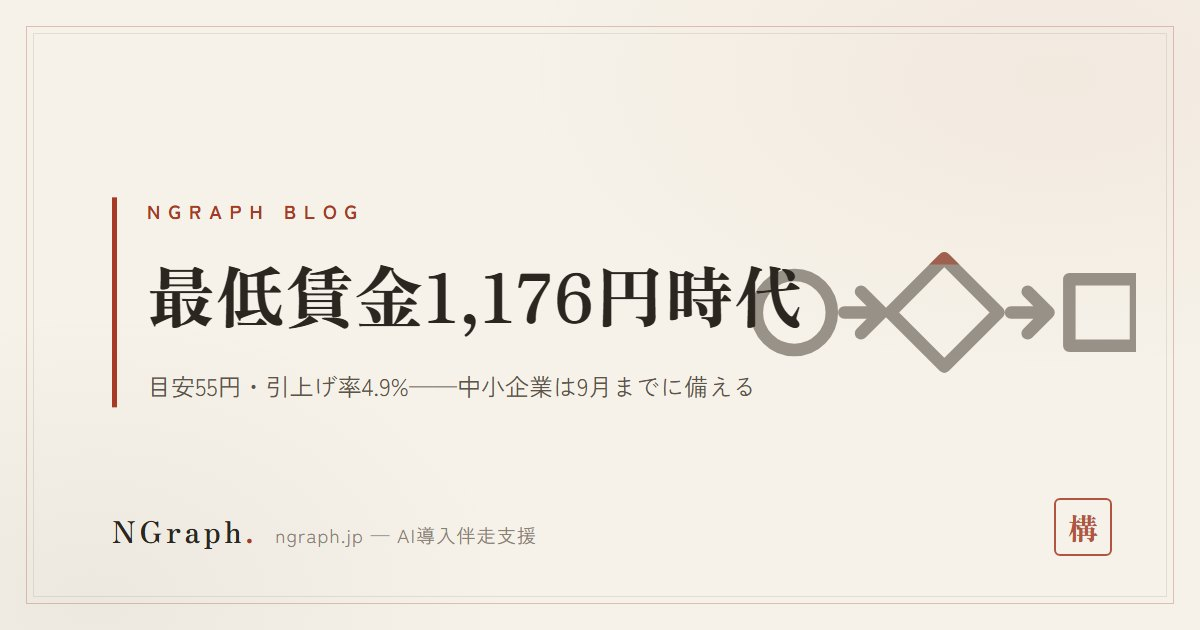
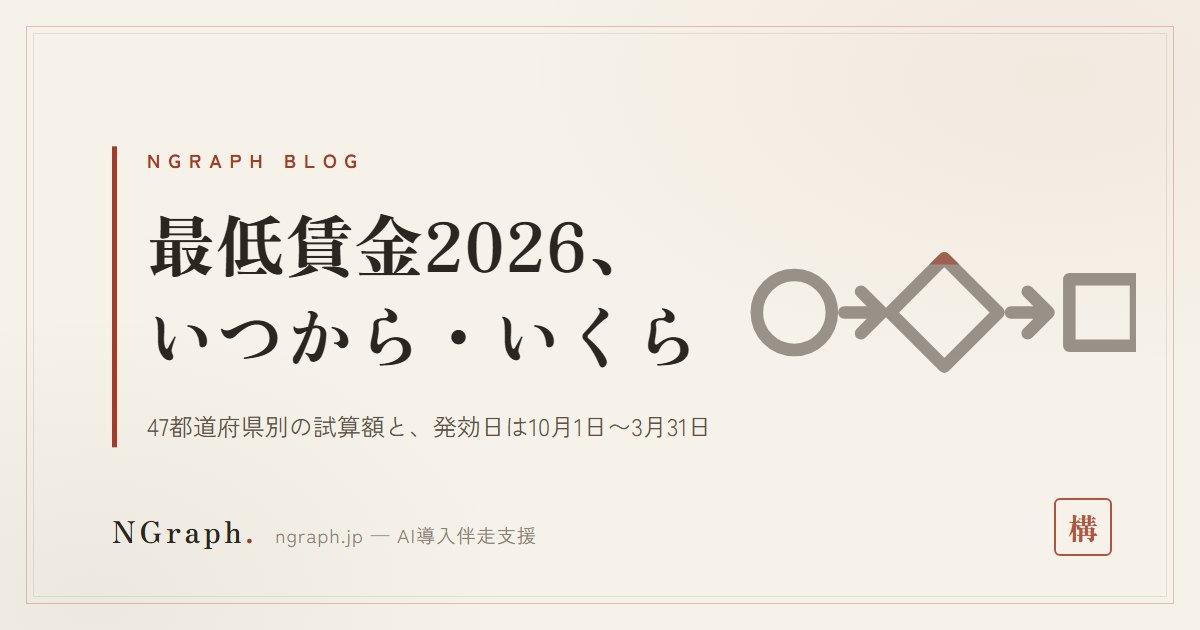
blog: 最低賃金2026記事を「いつから・いくら」型にリライト
厚労省「令和7年度地域別最低賃金全国一覧」PDFから47都道府県の額と
発効日を抽出し、県別の想定時給一覧を追加。検索の入口を広げる。

- 47都道府県表（いまの時給／その時給になった日／目安／2026年度の想定時給）
- 新H2「いつから」: 令和7年度は10月中発効が20都道府県のみ、6県は年越し、
  秋田は2026年3月31日
- 新H2「自社が下回っていないか」: 厚労省セルフチェックシートの月給判定式、
  最低賃金法4条3項・施行規則1条の算入しない賃金、4条2項の無効・40条の罰則
- タイトル/meta/JSON-LD/アイキャッチ/ブログ一覧カードを更新、FAQ 9問に拡充
- .a-fig-wrap に overflow-x:auto（この記事だけ8/5以降の修正が入っていなかった）
- 47行表は1列目 sticky、列見出しを短縮してPC幅での横スクロールを解消

Changed region(s): [[0.1233, 0.3317, 0.6783, 0.6333], [0.0925, 0.6635, 0.5858, 0.6937], [0.0925, 0.2413, 0.3083, 0.3016]]

diff --git a/blog/20260803-saitei-chingin-2026.html b/blog/20260803-saitei-chingin-2026.html
@@ -10,10 +10,10 @@
   gtag('js', new Date());
   gtag('config', 'G-L96HMXRK1D');
 </script>
-<title>最低賃金2026年度は55円引き上げ・全国加重平均1,176円へ——賃上げ率3.38%の小規模企業がギャップをどう埋めるか | NGraphブログ</title>
-<meta name="description" content="厚労省が2026年7月28日に示した令和8年度の最低賃金の目安は全国加重平均で55円引き上げ・1,176円。日商調査の小規模企業の賃上げ率3.38%とのギャップと、9月までに決めることを数字で解説します。">
-<meta property="og:title" content="最低賃金2026年度は55円引き上げ・全国加重平均1,176円へ——賃上げ率3.38%の小規模企業がギャップをどう埋めるか | NGraphブログ">
-<meta property="og:description" content="厚労省が2026年7月28日に示した令和8年度の最低賃金の目安は全国加重平均で55円引き上げ・1,176円。日商調査の小規模企業の賃上げ率3.38%とのギャップと、9月までに決めることを数字で解説します。">
+<title>最低賃金2026年度はいつから・いくら？47都道府県別の想定時給と発効日——目安55円・全国平均1,176円 | NGraphブログ</title>
+<meta name="description" content="令和8年度（2026年度）の最低賃金の目安は全国加重平均で55円引き上げ・1,176円。47都道府県ごとの2026年度の想定時給と、令和7年度の発効日（2025年10月1日〜2026年3月31日）を一覧にしました。自社が下回っていないかの確認方法と、9月1日受付開始の業務改善助成金まで解説します。">
+<meta property="og:title" content="最低賃金2026年度はいつから・いくら？47都道府県別の想定時給と発効日——目安55円・全国平均1,176円 | NGraphブログ">
+<meta property="og:description" content="令和8年度（2026年度）の最低賃金の目安は全国加重平均で55円引き上げ・1,176円。47都道府県ごとの2026年度の想定時給と、令和7年度の発効日を一覧にしました。自社が下回っていないかの確認方法まで解説します。">
 <meta property="og:type" content="article">
 <meta property="og:url" content="https://ngraph.jp/blog/20260803-saitei-chingin-2026.html">
 <meta property="og:site_name" content="株式会社NGraph">
@@ -28,16 +28,16 @@
 <link rel="preconnect" href="https://fonts.gstatic.com" crossorigin>
 <link href="https://fonts.googleapis.com/css2?family=Zen+Old+Mincho:wght@400;600;700;900&family=Zen+Kaku+Gothic+New:wght@400;500;700&family=Noto+Sans+JP:wght@400;500;700&display=swap" rel="stylesheet">
 <link rel="stylesheet" href="/css/ngraph-zen.css?v=5">
-<style>.a-faq details{border:1px solid var(--border);border-radius:3px;background:var(--bg-card);margin-bottom:10px;padding:0 18px}.a-faq summary{font-family:var(--serif);font-size:.92rem;font-weight:700;line-height:1.7;padding:14px 0;cursor:pointer;list-style:none;position:relative;padding-right:26px}.a-faq summary::after{content:"＋";position:absolute;right:2px;top:50%;transform:translateY(-50%);color:var(--accent)}.a-faq details[open] summary::after{content:"−"}.a-faq details p{font-size:.86rem;color:var(--text-2);line-height:2;padding:0 0 16px}.a-note{background:rgba(166,58,36,.05);border-left:2.5px solid var(--accent);padding:16px 20px;border-radius:0 3px 3px 0;font-size:.88rem;color:var(--text-2);line-height:2.1;margin:26px 0}.a-note strong{color:var(--text)}.a-table-wrap{overflow-x:auto;margin:18px 0}.a-table{width:100%;border-collapse:collapse;font-size:.84rem}.a-table th,.a-table td{border:1px solid var(--border);padding:9px 12px;text-align:left;line-height:1.8;color:var(--text-2)}.a-table th{background:rgba(166,58,36,.05);color:var(--text);font-weight:700;white-space:nowrap}.a-eyecatch{width:100%;height:auto;display:block;border:1px solid var(--border);border-radius:4px;margin:24px 0 8px}.a-fig-wrap{background:var(--bg-card);border:1px solid var(--border);border-radius:4px;padding:22px 18px 14px;margin:26px 0}.a-fig-title{font-family:var(--serif);font-size:.95rem;font-weight:700;text-align:center;margin-bottom:10px;color:var(--text)}.a-fig-cap{font-size:.8rem;color:var(--text-3);line-height:1.95;margin-top:10px}.a-src{border-top:1px solid var(--border);margin-top:34px;padding-top:16px;font-size:.78rem;color:var(--text-3);line-height:2}.a-src a{color:var(--text-3);text-decoration:underline}.a-toc{background:var(--bg-card);border:1px solid var(--border);border-radius:3px;padding:16px 20px;margin:20px 0;font-size:.86rem;color:var(--text-2);line-height:2}.a-toc strong{color:var(--text)}</style>
+<style>.a-faq details{border:1px solid var(--border);border-radius:3px;background:var(--bg-card);margin-bottom:10px;padding:0 18px}.a-faq summary{font-family:var(--serif);font-size:.92rem;font-weight:700;line-height:1.7;padding:14px 0;cursor:pointer;list-style:none;position:relative;padding-right:26px}.a-faq summary::after{content:"＋";position:absolute;right:2px;top:50%;transform:translateY(-50%);color:var(--accent)}.a-faq details[open] summary::after{content:"−"}.a-faq details p{font-size:.86rem;color:var(--text-2);line-height:2;padding:0 0 16px}.a-note{background:rgba(166,58,36,.05);border-left:2.5px solid var(--accent);padding:16px 20px;border-radius:0 3px 3px 0;font-size:.88rem;color:var(--text-2);line-height:2.1;margin:26px 0}.a-note strong{color:var(--text)}.a-table-wrap{overflow-x:auto;margin:18px 0}.a-table{width:100%;border-collapse:collapse;font-size:.84rem}.a-table th,.a-table td{border:1px solid var(--border);padding:9px 12px;text-align:left;line-height:1.8;color:var(--text-2)}.a-table th{background:rgba(166,58,36,.05);color:var(--text);font-weight:700;white-space:nowrap}.a-eyecatch{width:100%;height:auto;display:block;border:1px solid var(--border);border-radius:4px;margin:24px 0 8px}.a-fig-wrap{background:var(--bg-card);border:1px solid var(--border);border-radius:4px;padding:22px 18px 14px;margin:26px 0;overflow-x:auto}.a-fig-title{font-family:var(--serif);font-size:.95rem;font-weight:700;text-align:center;margin-bottom:10px;color:var(--text)}.a-fig-cap{font-size:.8rem;color:var(--text-3);line-height:1.95;margin-top:10px}.a-src{border-top:1px solid var(--border);margin-top:34px;padding-top:16px;font-size:.78rem;color:var(--text-3);line-height:2}.a-src a{color:var(--text-3);text-decoration:underline}.a-toc{background:var(--bg-card);border:1px solid var(--border);border-radius:3px;padding:16px 20px;margin:20px 0;font-size:.86rem;color:var(--text-2);line-height:2}.a-toc strong{color:var(--text)}.a-t47 td{white-space:nowrap}.a-t47 td:first-child,.a-t47 th:first-child{position:sticky;left:0;background:var(--bg);z-index:1}.a-t47 th:first-child{background:#efe9dc}</style>
 <script type="application/ld+json">
 {
   "@context": "https://schema.org",
   "@type": "Article",
-  "headline": "最低賃金2026年度は55円引き上げ・全国加重平均1,176円へ——賃上げ率3.38%の小規模企業がギャップをどう埋めるか",
+  "headline": "最低賃金2026年度はいつから・いくら？47都道府県別の想定時給と発効日——目安55円・全国平均1,176円",
   "image": "https://ngraph.jp/assets/blog/20260803-saitei-chingin-2026.jpg",
-  "description": "厚労省が2026年7月28日に示した令和8年度の最低賃金の目安は全国加重平均で55円引き上げ・1,176円。日商調査の小規模企業の賃上げ率3.38%とのギャップと、9月までに決めることを数字で解説します。",
+  "description": "令和8年度（2026年度）の最低賃金の目安は全国加重平均で55円引き上げ・1,176円。47都道府県ごとの2026年度の想定時給と、令和7年度の発効日（2025年10月1日〜2026年3月31日）を一覧にしました。自社が下回っていないかの確認方法と、9月1日受付開始の業務改善助成金まで解説します。",
   "datePublished": "2026-08-03",
-  "dateModified": "2026-08-03",
+  "dateModified": "2026-08-07",
   "inLanguage": "ja",
   "mainEntityOfPage": "https://ngraph.jp/blog/20260803-saitei-chingin-2026.html",
   "author": { "@type": "Person", "name": "髙橋 真吾", "jobTitle": "代表取締役", "url": "https://ngraph.jp/company#team", "worksFor": { "@type": "Organization", "name": "株式会社NGraph", "url": "https://ngraph.jp/" } },
@@ -49,7 +49,10 @@
  "@context": "https://schema.org",
  "@type": "FAQPage",
  "mainEntity": [
-  {"@type": "Question", "name": "2026年度の最低賃金はいつから上がりますか？", "acceptedAnswer": {"@type": "Answer", "text": "令和7年度の引上げは、2025年10月1日から2026年3月31日までの間に都道府県ごとに順次発効しました。令和8年度も同じ仕組みで、目安をもとに各都道府県労働局長が改定額を決定し、発効日は都道府県ごとに順次定められます。全国一律で特定の1日に切り替わるわけではありません。"}},
+  {"@type": "Question", "name": "2026年度の最低賃金はいつから上がりますか？", "acceptedAnswer": {"@type": "Answer", "text": "令和7年度の引上げは、2025年10月1日（栃木）から2026年3月31日（秋田）までの間に、都道府県ごとに順次発効しました。10月中に発効したのは47のうち20都道府県、10月10日までなら13都道府県で、福島・徳島・熊本・大分・群馬・秋田の6県は年を越しています。令和8年度も同じ仕組みで、目安をもとに各都道府県労働局長が改定額と発効日を決定します。全国一律で特定の1日に切り替わるわけではありません。"}},
+  {"@type": "Question", "name": "自分の県の最低賃金は2026年度にいくらになりますか？", "acceptedAnswer": {"@type": "Answer", "text": "目安どおりに決まった場合の試算では、東京1,280円・神奈川1,279円・大阪1,231円が上位3都府県、高知・宮崎・沖縄の1,079円が最も低くなります。この記事の「47都道府県別」の表に、いまの時給・引上げの目安・2026年度の想定時給を全県分載せています。ただし想定時給はいまの時給にランク別の目安額を足した計算値であり、確定額ではありません。実際の額は各都道府県労働局長が決定します。"}},
+  {"@type": "Question", "name": "月給の場合、最低賃金を満たしているかはどう計算しますか？", "acceptedAnswer": {"@type": "Answer", "text": "厚生労働省の「最低賃金に関するセルフチェックシート」では、①基本給・役付手当・住宅手当・交替手当の合計を出し、②1日の所定労働時間数×年間総労働日数÷12で1か月の所定労働時間数を出し、③①÷②で時間額を求めて、自分の都道府県の最低賃金額と比べる、という手順を示しています。賞与、残業代、休日出勤手当、深夜割増分、通勤手当、家族手当などは算入しません。総支給額で割ると時間額が実際より高く出るので注意してください。"}},
+  {"@type": "Question", "name": "最低賃金より低い賃金でも、本人が合意していれば有効ですか？", "acceptedAnswer": {"@type": "Answer", "text": "有効になりません。最低賃金法第4条第2項は、最低賃金額に達しない賃金を定めた労働契約はその部分について無効とし、無効となった部分は最低賃金と同じ定めをしたものとみなす、と規定しています。合意の有無にかかわらず差額の支払い義務が残ります。また同法第40条により、地域別最低賃金額以上の賃金を支払わなかった者は50万円以下の罰金の対象です。"}},
   {"@type": "Question", "name": "目安の55円は必ずその額になりますか？", "acceptedAnswer": {"@type": "Answer", "text": "なりません。55円は第75回中央最低賃金審議会が2026年7月28日に示した「目安」であり、実際の引上げ額は目安を参考にしながら、各都道府県労働局長が地域の実情を踏まえて決定します。目安どおりになるとは限りません。"}},
   {"@type": "Question", "name": "東京・大阪（Aランク）の方が上げ幅の目安が小さいのはなぜですか？", "acceptedAnswer": {"@type": "Answer", "text": "令和8年度の目安はAランク54円、B・Cランクはともに56円です。この記事では目安の理由そのものには踏み込みませんが、令和7年度に最低額の県と最高額の県の比率が83.4%（前年度81.8%）へ縮まったことが分かっており、地域差を縮める向きの目安が続いていると読めます。"}},
   {"@type": "Question", "name": "パート・アルバイトも対象ですか？", "acceptedAnswer": {"@type": "Answer", "text": "地域別最低賃金は、産業や雇用形態にかかわらず、その都道府県内で働くすべての労働者に適用される仕組みです。パート・アルバイトも対象に含まれます。"}},
@@ -75,25 +78,113 @@
 
 <article class="article-wrap">
   <div class="a-label">Evening Deep Dive</div>
-  <h1>最低賃金2026年度は55円引き上げ・全国加重平均1,176円へ——賃上げ率3.38%の小規模企業がギャップをどう埋めるか</h1>
-  <span class="a-date">2026.08.03 夕 ｜ 株式会社NGraph</span>
+  <h1>最低賃金2026年度はいつから・いくら？47都道府県別の想定時給と発効日——目安55円・全国平均1,176円</h1>
+  <span class="a-date">2026.08.03 夕 ｜ 株式会社NGraph ｜ <strong>最終更新 2026.08.07</strong></span>
   <img class="a-eyecatch" src="/assets/blog/20260803-saitei-chingin-2026.jpg" alt="">
 
-<p>厚生労働省・中央最低賃金審議会が2026年7月28日に示した令和8年度の最低賃金の目安は、<strong>全国加重平均で55円の引き上げ・1,176円</strong>です。ただしこれはあくまで「目安」であり、確定額ではありません。実際の引上げ額は、この目安をもとに各都道府県労働局長が決定します。同じ頃、日本商工会議所の調査（2026年6月8日公表）では、中小企業の賃上げ率は4.01%、従業員20人以下の小規模企業に限ると<strong>3.38%</strong>にとどまることも分かっています。この記事では、①令和8年度の目安の中身、②最低賃金の引上げ率と中小企業の賃上げ率がズレる理由、③中小企業が9月までにやるべきことの3点を、公的な数字だけで解説します。</p>
+<p>厚生労働省・中央最低賃金審議会が2026年7月28日に示した令和8年度（2026年度）の最低賃金の目安は、<strong>全国加重平均で55円の引き上げ・1,176円</strong>です。ただしこれはあくまで「目安」であり、確定額ではありません。実際の引上げ額と<strong>発効日は、都道府県ごとに違います</strong>。<strong>そして2026年度は、この記事の時点でまだどの県も確定していません</strong>——8月から各都道府県の地方最低賃金審議会が答申し、都道府県労働局長が額と発効日を決めます。「いつから」を今の時点で知る唯一の手がかりは、前年に自分の県がいつ発効したかです。令和7年度は、最も早い栃木の2025年10月1日から、最も遅い秋田の2026年3月31日まで<strong>半年ひらきました</strong>。この記事では、①47都道府県それぞれの2026年度の想定時給、②前年の発効日の実績から読む「いつから」、③自社の賃金が下回っていないかの確認方法、④9月1日に受付が始まる業務改善助成金までを、一次情報の数字だけで解説します。</p>
 <div class="a-toc"><strong>この記事でわかること</strong><br>
-・令和8年度の最低賃金の目安（全国加重平均55円・1,176円）の中身とランク別の差<br>
+・<strong>47都道府県別</strong>——いまの時給・その時給になった日・2026年度の想定時給の一覧<br>
+・<strong>「いつから」の実際</strong>——令和7年度に10月中に発効したのは47のうち20都道府県だけ。6県は年を越した<br>
+・<strong>自社チェック</strong>——月給の労働者が最低賃金を下回っていないかを厚労省のセルフチェックシートの式で確かめる方法<br>
 ・最低賃金の引上げ率4.9%と、日商調査の小規模企業の賃上げ率3.38%がズレる理由<br>
 ・9月1日に受付が始まる業務改善助成金を含め、中小企業が今から準備すべき3ステップ</div>
 
 <h2>2026年度の最低賃金はいくら上がるのか——目安55円・全国加重平均1,176円</h2>
 <p>2026年7月28日、第75回中央最低賃金審議会は「令和8年度地域別最低賃金額改定の目安」を答申しました。全国加重平均で見た引上げ額の目安は55円、これがそのまま反映されれば全国加重平均は現在の1,121円から<strong>1,176円</strong>になります。引上げ率にすると4.9%です。目安は都道府県を経済実態に応じてA・B・Cの3つのランクに分けて示されており、その内訳は次のとおりです。</p>
 <div class="a-table-wrap"><table class="a-table">
-<tr><th>ランク</th><th>引上げ額の目安</th><th>対象の都道府県数</th></tr>
-<tr><td>Aランク</td><td class="a-num"><strong>54円</strong></td><td>6都府県</td></tr>
-<tr><td>Bランク</td><td class="a-num"><strong>56円</strong></td><td>28道府県</td></tr>
-<tr><td>Cランク</td><td class="a-num"><strong>56円</strong></td><td>13県</td></tr>
+<tr><th>ランク</th><th>引上げ額の目安</th><th>対象の都道府県</th></tr>
+<tr><td>Aランク</td><td class="a-num"><strong>54円</strong></td><td>6都府県＝埼玉・千葉・東京・神奈川・愛知・大阪</td></tr>
+<tr><td>Bランク</td><td class="a-num"><strong>56円</strong></td><td>28道府県＝北海道・宮城・福島・茨城・栃木・群馬・新潟・富山・石川・福井・山梨・長野・岐阜・静岡・三重・滋賀・京都・兵庫・奈良・和歌山・島根・岡山・広島・山口・徳島・香川・愛媛・福岡</td></tr>
+<tr><td>Cランク</td><td class="a-num"><strong>56円</strong></td><td>13県＝青森・岩手・秋田・山形・鳥取・高知・佐賀・長崎・熊本・大分・宮崎・鹿児島・沖縄</td></tr>
 </table></div>
-<p>47都道府県のうち41道府県がBまたはCランクで56円、残る6都府県がAランクで54円という配分です。ここで必ず押さえておきたいのは、<strong>目安は目安であり、実際の引上げ額は各都道府県労働局長が決定する</strong>という点です。中央最低賃金審議会の答申はあくまで参考値です。実際、令和7年度の改定では、都道府県ごとの引上げ額は63円〜82円と幅がありました。令和7年度については、2025年9月5日に全都道府県の答申が出そろっています。</p>
+<p>47都道府県のうち41道府県がBまたはCランクで56円、残る6都府県がAランクで54円という配分です。<strong>上げ幅の目安が大きいのは、東京・大阪ではなく地方の側</strong>だという点が、令和8年度の目安の特徴です。ここで必ず押さえておきたいのは、<strong>目安は目安であり、実際の引上げ額は各都道府県労働局長が決定する</strong>という点です。中央最低賃金審議会の答申はあくまで参考値です。実際、令和7年度の改定では、都道府県ごとの引上げ額は63円〜82円と幅がありました。令和7年度については、2025年9月5日に全都道府県の答申が出そろっています。令和8年度も、8月から各都道府県の地方最低賃金審議会が審議・答申し、その額を都道府県労働局長が決定する流れです。</p>
+
+<h2>47都道府県別——あなたの県の2026年度の想定時給はいくらか</h2>
+<p>目安はランクごとにまとめて示されるため、自分の県がいくらになるのかは一覧にしないと見えません。次の表は、いま適用されている時給（2025年度＝令和7年度の確定額）に、2026年度のランク別目安（Aランク54円／B・Cランク56円）を足した<strong>想定時給</strong>です。</p><div class="a-note"><strong>先に、列の読み方だけ：</strong>「いまの時給」＝2025年度（令和7年度）に確定して、いま適用されている最低賃金。「この時給になった日」＝<strong>その時給がその県で適用され始めた日</strong>で、右端の想定時給がその日から適用されるという意味ではありません。「目安」＝2026年度のランク別の引上げ目安（Aランクの6都府県が+54円、ほかの41道府県が+56円）。「2026年度の想定時給」＝いまの時給に目安を足しただけの<strong>想定であって、確定額ではありません</strong>。<strong>2026年度の発効日は、まだどの県も決まっていません</strong>——8月から各都道府県の地方最低賃金審議会が答申し、そこで初めて額と発効日が決まります。それでもこの列を載せているのは、<strong>前年に自分の県がいつ発効したかが、今年の見込みを立てる唯一の手がかり</strong>だからです。福井なら2025年10月8日、秋田なら2026年3月31日で、この差はそのまま今年も出る可能性があります（次のセクションで詳しく書きます）。</div>
+<div class="a-table-wrap"><table class="a-table a-t47">
+<tr><th>都道府県</th><th>いまの時給</th><th>この時給になった日</th><th>目安</th><th>2026年度の想定時給</th></tr>
+<tr><td>北海道</td><td class="a-num">1,075円</td><td>2025年10月4日</td><td class="a-num">+56円</td><td class="a-num"><strong>1,131円</strong></td></tr>
+<tr><td>青森</td><td class="a-num">1,029円</td><td>2025年11月21日</td><td class="a-num">+56円</td><td class="a-num"><strong>1,085円</strong></td></tr>
+<tr><td>岩手</td><td class="a-num">1,031円</td><td>2025年12月1日</td><td class="a-num">+56円</td><td class="a-num"><strong>1,087円</strong></td></tr>
+<tr><td>宮城</td><td class="a-num">1,038円</td><td>2025年10月4日</td><td class="a-num">+56円</td><td class="a-num"><strong>1,094円</strong></td></tr>
+<tr><td>秋田</td><td class="a-num">1,031円</td><td>2026年3月31日</td><td class="a-num">+56円</td><td class="a-num"><strong>1,087円</strong></td></tr>
+<tr><td>山形</td><td class="a-num">1,032円</td><td>2025年12月23日</td><td class="a-num">+56円</td><td class="a-num"><strong>1,088円</strong></td></tr>
+<tr><td>福島</td><td class="a-num">1,033円</td><td>2026年1月1日</td><td class="a-num">+56円</td><td class="a-num"><strong>1,089円</strong></td></tr>
+<tr><td>茨城</td><td class="a-num">1,074円</td><td>2025年10月12日</td><td class="a-num">+56円</td><td class="a-num"><strong>1,130円</strong></td></tr>
+<tr><td>栃木</td><td class="a-num">1,068円</td><td>2025年10月1日</td><td class="a-num">+56円</td><td class="a-num"><strong>1,124円</strong></td></tr>
+<tr><td>群馬</td><td class="a-num">1,063円</td><td>2026年3月1日</td><td class="a-num">+56円</td><td class="a-num"><strong>1,119円</strong></td></tr>
+<tr><td>埼玉</td><td class="a-num">1,141円</td><td>2025年11月1日</td><td class="a-num">+54円</td><td class="a-num"><strong>1,195円</strong></td></tr>
+<tr><td>千葉</td><td class="a-num">1,140円</td><td>2025年10月3日</td><td class="a-num">+54円</td><td class="a-num"><strong>1,194円</strong></td></tr>
+<tr><td>東京</td><td class="a-num">1,226円</td><td>2025年10月3日</td><td class="a-num">+54円</td><td class="a-num"><strong>1,280円</strong></td></tr>
+<tr><td>神奈川</td><td class="a-num">1,225円</td><td>2025年10月4日</td><td class="a-num">+54円</td><td class="a-num"><strong>1,279円</strong></td></tr>
+<tr><td>新潟</td><td class="a-num">1,050円</td><td>2025年10月2日</td><td class="a-num">+56円</td><td class="a-num"><strong>1,106円</strong></td></tr>
+<tr><td>富山</td><td class="a-num">1,062円</td><td>2025年10月12日</td><td class="a-num">+56円</td><td class="a-num"><strong>1,118円</strong></td></tr>
+<tr><td>石川</td><td class="a-num">1,054円</td><td>2025年10月8日</td><td class="a-num">+56円</td><td class="a-num"><strong>1,110円</strong></td></tr>
+<tr><td>福井</td><td class="a-num">1,053円</td><td>2025年10月8日</td><td class="a-num">+56円</td><td class="a-num"><strong>1,109円</strong></td></tr>
+<tr><td>山梨</td><td class="a-num">1,052円</td><td>2025年12月1日</td><td class="a-num">+56円</td><td class="a-num"><strong>1,108円</strong></td></tr>
+<tr><td>長野</td><td class="a-num">1,061円</td><td>2025年10月3日</td><td class="a-num">+56円</td><td class="a-num"><strong>1,117円</strong></td></tr>
+<tr><td>岐阜</td><td class="a-num">1,065円</td><td>2025年10月18日</td><td class="a-num">+56円</td><td class="a-num"><strong>1,121円</strong></td></tr>
+<tr><td>静岡</td><td class="a-num">1,097円</td><td>2025年11月1日</td><td class="a-num">+56円</td><td class="a-num"><strong>1,153円</strong></td></tr>
+<tr><td>愛知</td><td class="a-num">1,140円</td><td>2025年10月18日</td><td class="a-num">+54円</td><td class="a-num"><strong>1,194円</strong></td></tr>
+<tr><td>三重</td><td class="a-num">1,087円</td><td>2025年11月21日</td><td class="a-num">+56円</td><td class="a-num"><strong>1,143円</strong></td></tr>
+<tr><td>滋賀</td><td class="a-num">1,080円</td><td>2025年10月5日</td><td class="a-num">+56円</td><td class="a-num"><strong>1,136円</strong></td></tr>
+<tr><td>京都</td><td class="a-num">1,122円</td><td>2025年11月21日</td><td class="a-num">+56円</td><td class="a-num"><strong>1,178円</strong></td></tr>
+<tr><td>大阪</td><td class="a-num">1,177円</td><td>2025年10月16日</td><td class="a-num">+54円</td><td class="a-num"><strong>1,231円</strong></td></tr>
+<tr><td>兵庫</td><td class="a-num">1,116円</td><td>2025年10月4日</td><td class="a-num">+56円</td><td class="a-num"><strong>1,172円</strong></td></tr>
+<tr><td>奈良</td><td class="a-num">1,051円</td><td>2025年11月16日</td><td class="a-num">+56円</td><td class="a-num"><strong>1,107円</strong></td></tr>
+<tr><td>和歌山</td><td class="a-num">1,045円</td><td>2025年11月1日</td><td class="a-num">+56円</td><td class="a-num"><strong>1,101円</strong></td></tr>
+<tr><td>鳥取</td><td class="a-num">1,030円</td><td>2025年10月4日</td><td class="a-num">+56円</td><td class="a-num"><strong>1,086円</strong></td></tr>
+<tr><td>島根</td><td class="a-num">1,033円</td><td>2025年11月17日</td><td class="a-num">+56円</td><td class="a-num"><strong>1,089円</strong></td></tr>
+<tr><td>岡山</td><td class="a-num">1,047円</td><td>2025年12月1日</td><td class="a-num">+56円</td><td class="a-num"><strong>1,103円</strong></td></tr>
+<tr><td>広島</td><td class="a-num">1,085円</td><td>2025年11月1日</td><td class="a-num">+56円</td><td class="a-num"><strong>1,141円</strong></td></tr>
+<tr><td>山口</td><td class="a-num">1,043円</td><td>2025年10月16日</td><td class="a-num">+56円</td><td class="a-num"><strong>1,099円</strong></td></tr>
+<tr><td>徳島</td><td class="a-num">1,046円</td><td>2026年1月1日</td><td class="a-num">+56円</td><td class="a-num"><strong>1,102円</strong></td></tr>
+<tr><td>香川</td><td class="a-num">1,036円</td><td>2025年10月18日</td><td class="a-num">+56円</td><td class="a-num"><strong>1,092円</strong></td></tr>
+<tr><td>愛媛</td><td class="a-num">1,033円</td><td>2025年12月1日</td><td class="a-num">+56円</td><td class="a-num"><strong>1,089円</strong></td></tr>
+<tr><td>高知</td><td class="a-num">1,023円</td><td>2025年12月1日</td><td class="a-num">+56円</td><td class="a-num"><strong>1,079円</strong></td></tr>
+<tr><td>福岡</td><td class="a-num">1,057円</td><td>2025年11月16日</td><td class="a-num">+56円</td><td class="a-num"><strong>1,113円</strong></td></tr>
+<tr><td>佐賀</td><td class="a-num">1,030円</td><td>2025年11月21日</td><td class="a-num">+56円</td><td class="a-num"><strong>1,086円</strong></td></tr>
+<tr><td>長崎</td><td class="a-num">1,031円</td><td>2025年12月1日</td><td class="a-num">+56円</td><td class="a-num"><strong>1,087円</strong></td></tr>
+<tr><td>熊本</td><td class="a-num">1,034円</td><td>2026年1月1日</td><td class="a-num">+56円</td><td class="a-num"><strong>1,090円</strong></td></tr>
+<tr><td>大分</td><td class="a-num">1,035円</td><td>2026年1月1日</td><td class="a-num">+56円</td><td class="a-num"><strong>1,091円</strong></td></tr>
+<tr><td>宮崎</td><td class="a-num">1,023円</td><td>2025年11月16日</td><td class="a-num">+56円</td><td class="a-num"><strong>1,079円</strong></td></tr>
+<tr><td>鹿児島</td><td class="a-num">1,026円</td><td>2025年11月1日</td><td class="a-num">+56円</td><td class="a-num"><strong>1,082円</strong></td></tr>
+<tr><td>沖縄</td><td class="a-num">1,023円</td><td>2025年12月1日</td><td class="a-num">+56円</td><td class="a-num"><strong>1,079円</strong></td></tr>
+<tr><td><strong>全国加重平均</strong></td><td class="a-num"><strong>1,121円</strong></td><td>—</td><td class="a-num">+55円</td><td class="a-num"><strong>1,176円</strong></td></tr>
+</table></div>
+<p style="font-size:.82rem;color:var(--text-3)">※「2026年度の想定時給」は、いまの時給にランク別の目安額を足しただけの計算値です。実績でも確定額でもありません。実際の額は各都道府県労働局長が決定するため、目安を上回ることも下回ることもあります（令和7年度は目安を上回った県が複数ありました）。「この時給になった日」は2025年度改定の実績で、2026年度の発効日ではありません。<br>出所：厚生労働省「令和7年度地域別最低賃金全国一覧」「令和8年度地域別最低賃金額改定の目安について」より作成。</p>
+<p>想定どおりに進んだ場合、1,200円を超えるのは東京（1,280円）・神奈川（1,279円）・大阪（1,231円）の3都府県だけです。最も低いのは高知・宮崎・沖縄の1,079円で、最高額と最低額の差は<strong>201円</strong>。令和7年度の203円（東京1,226円と高知・宮崎・沖縄の1,023円）から、わずかに縮まる計算になります。1,100円以上になるのは<strong>28都道府県</strong>で、47のうち過半数です。</p>
+<p style="font-size:.85rem;color:var(--text-2)">この表の額を自社の賃金テーブルに当てはめると人件費がどう動くか、一緒に整理したい方は<a href="/fde/" style="color:var(--accent);border-bottom:1px solid var(--accent)">無料のAI導入診断・無料相談</a>からご相談ください。</p>
+
+<h2>最低賃金はいつから上がるのか——令和7年度に「10月中」だったのは20都道府県だけ</h2>
+<p>「最低賃金はいつから上がるのか」への正確な答えは、<strong>「都道府県ごとに違う」</strong>です。全国一律に10月1日から切り替わるわけではありません。厚生労働省の令和7年度の全国一覧で発効日を数えると、これだけばらけています。</p>
+<div class="a-fig-wrap">
+<p class="a-fig-title">令和7年度、10月中に発効したのは47のうち20都道府県だけ</p>
+<svg viewBox="0 0 1200 406" width="100%" style="min-width:640px" role="img" aria-label="令和7年度の地域別最低賃金の発効月の分布。令和7年10月が20都道府県、11月が13、12月が8、令和8年1月が4、令和8年3月が2"><text x="169" y="75" font-family="'Zen Kaku Gothic New',sans-serif" font-size="21" fill="#2b2620" font-weight="700" text-anchor="end">令和7年10月</text><rect x="187" y="50" width="813" height="34" rx="2" fill="#a63a24"/><text x="1012" y="76" font-family="'Zen Kaku Gothic New',sans-serif" font-size="24" fill="#a63a24" font-weight="900" text-anchor="start">20都道府県</text><text x="169" y="127" font-family="'Zen Kaku Gothic New',sans-serif" font-size="21" fill="#2b2620" font-weight="700" text-anchor="end">令和7年11月</text><rect x="187" y="102" width="528" height="34" rx="2" fill="#cfc5b4"/><text x="727" y="128" font-family="'Zen Kaku Gothic New',sans-serif" font-size="24" fill="#8a8172" font-weight="900" text-anchor="start">13都道府県</text><text x="169" y="179" font-family="'Zen Kaku Gothic New',sans-serif" font-size="21" fill="#2b2620" font-weight="700" text-anchor="end">令和7年12月</text><rect x="187" y="154" width="325" height="34" rx="2" fill="#cfc5b4"/><text x="524" y="180" font-family="'Zen Kaku Gothic New',sans-serif" font-size="24" fill="#8a8172" font-weight="900" text-anchor="start">8都道府県</text><text x="169" y="231" font-family="'Zen Kaku Gothic New',sans-serif" font-size="21" fill="#2b2620" font-weight="700" text-anchor="end">令和8年1月</text><rect x="187" y="206" width="162" height="34" rx="2" fill="#cfc5b4"/><text x="361" y="232" font-family="'Zen Kaku Gothic New',sans-serif" font-size="24" fill="#8a8172" font-weight="900" text-anchor="start">4都道府県</text><text x="169" y="283" font-family="'Zen Kaku Gothic New',sans-serif" font-size="21" fill="#2b2620" font-weight="700" text-anchor="end">令和8年3月</text><rect x="187" y="258" width="81" height="34" rx="2" fill="#cfc5b4"/><text x="280" y="284" font-family="'Zen Kaku Gothic New',sans-serif" font-size="24" fill="#8a8172" font-weight="900" text-anchor="start">2都道府県</text><text x="600.0" y="348" font-family="'Zen Old Mincho',serif" font-size="24" fill="#2b2620" font-weight="900" text-anchor="middle">「10月1日から上がる」で人件費を見込むと、県によっては発効が半年ずれる</text><text x="8" y="390" font-family="'Zen Kaku Gothic New',sans-serif" font-size="13" fill="#8a8172" font-weight="400" text-anchor="start">出所：厚生労働省「令和7年度地域別最低賃金全国一覧」より作成</text></svg>
+</div>
+<p>10月中に発効したのは47のうち<strong>20都道府県</strong>、10月10日までに限ると<strong>13都道府県</strong>です。11月が13、12月が8、そして<strong>6県は年を越しました</strong>——福島・徳島・熊本・大分が2026年1月1日、群馬が3月1日、秋田が3月31日です。</p>
+<p>この差は、そのまま負担の始まる時期の差になります。栃木は2025年10月1日から1,068円が適用されました。一方、秋田で1,031円が適用され始めたのは<strong>2026年3月31日</strong>で、それまでの半年間は改定前の951円のままでした。同じ「令和7年度の改定」でも、人件費が増え始める時期が半年違うということです。<strong>「10月から時給が上がる」という前提だけで年間の人件費を見積もると、県によっては見込みが大きくずれます</strong>。</p>
+<p>令和8年度についても流れは同じで、8月から各都道府県の地方最低賃金審議会が審議・答申し、都道府県労働局長が額と発効日を決定します。自社の都道府県の発効日は、答申が出たあとに<strong>都道府県労働局の発表で個別に確認</strong>してください。上の表の発効日はあくまで令和7年度の実績です。</p>
+
+<h2>自社の賃金は最低賃金を下回っていないか——月給の人の確認方法</h2>
+<p>時給で払っている人は、時給の額をそのまま比べれば済みます。判断が難しいのは<strong>月給の人</strong>です。厚生労働省が配布している「最低賃金に関するセルフチェックシート」は、次の手順で確認するよう示しています。</p>
+<div class="a-table-wrap"><table class="a-table">
+<tr><th>手順</th><th>計算</th></tr>
+<tr><td>①賃金</td><td>基本給＋役付手当＋住宅手当＋交替手当を合計する</td></tr>
+<tr><td>②時間</td><td>1日の所定労働時間数 × 年間総労働日数 ÷ 12 ＝ 1か月の所定労働時間数</td></tr>
+<tr><td>③時間額</td><td>① ÷ ② ＝ 時間額。これが自分の都道府県の最低賃金額以上か</td></tr>
+</table></div>
+<p>ここで間違えやすいのが、<strong>総支給額で計算してしまうこと</strong>です。最低賃金法第4条第3項と同法施行規則第1条により、次の賃金は最低賃金との比較に<strong>算入しません</strong>。</p>
+<ul>
+<li>臨時に支払われる賃金（結婚手当など）</li>
+<li>1か月を超える期間ごとに支払われる賃金（賞与など）</li>
+<li>所定労働時間を超える時間の労働に対して支払われる賃金（残業代）</li>
+<li>所定労働日以外の日の労働に対して支払われる賃金（休日出勤手当）</li>
+<li>午後10時〜午前5時の労働に対する賃金のうち、通常の時間の賃金を超える部分（深夜割増分）</li>
+</ul>
+<p>加えて、法第4条第3項第三号により<strong>各地域別最低賃金の定めの中でも算入しない賃金が指定されており</strong>、厚生労働省のセルフチェックシートで①に足す手当として挙がっているのも基本給・役付手当・住宅手当・交替手当の4つだけです。精皆勤手当・通勤手当・家族手当を足して「最低賃金を上回っている」と判断していないか、確認してください。</p>
+<div class="a-note"><strong>下回っていた場合：</strong>最低賃金法第4条第2項は、最低賃金額に達しない賃金を定めた労働契約は<strong>その部分について無効</strong>とし、無効となった部分は最低賃金と同じ定めをしたものとみなす、と規定しています。つまり<strong>本人が合意していても無効</strong>で、差額の支払い義務が残ります。さらに同法第40条により、地域別最低賃金額以上の賃金を支払わなかった者は<strong>50万円以下の罰金</strong>の対象です。</div>
 
 <h2>「4.9%」と「3.38%」——最低賃金と中小企業の賃上げ率がズレる理由</h2>
 <p>目安どおりに改定されれば、最低賃金の引上げ率は4.9%です。一方、日本商工会議所が2026年6月8日に公表した「中小企業の賃上げ・賃金改定に関する調査」（調査期間2026年4月7日〜5月18日、回答企業数2,260社、全国47都道府県・345商工会議所が回収）によると、従業員20人以下の小規模企業の賃上げ率は<strong>3.38%</strong>、賃上げ額は9,170円にとどまっています。同じ「賃上げ」というテーマなのに、なぜ数字が違うのでしょうか。答えは、この2つがそもそも別のものを測っているからです。</p>
@@ -105,7 +196,6 @@
 <tr><td>決まり方</td><td>審議会の目安→各都道府県労働局長が決定（企業の意思とは無関係に効く）</td><td>各社の経営判断（賃上げ実施・予定・未定を自社で選べる）</td></tr>
 </table></div>
 <p>最低賃金の引上げは、企業が「賃上げをするかどうか」を選べるものではなく、法定の下限そのものが底上げされる仕組みです。一方、日商調査の3.38%は、各社が自社の経営判断で決めた賃上げの結果です。母集団も、全労働者に適用される法定の下限と、商工会議所会員のうち回答した2,260社という調査サンプルとでは、性質がまったく違います。したがって、<strong>定義が違う2つの数字を単純に比較することはできません</strong>。</p>
-<p style="font-size:.85rem;color:var(--text-2)">自社の賃金テーブルが最低賃金の引上げペースに追いついているか気になる方は、<a href="/fde/" style="color:var(--accent);border-bottom:1px solid var(--accent)">無料のAI導入診断</a>で現在地を確認できます。</p>
 <p>ただし、単純比較はできなくても、<strong>「法定の下限の方が、企業の賃上げより速いペースで上がっている」という向き自体は、2年続けて同じ方向</strong>を示しています。令和7年度の最低賃金の引上げ率は約6.3%（後述）、令和8年度は目安どおりなら4.9%。いずれも、中小企業の賃上げ率（令和8年度は小規模企業で3.38%）を上回るペースです。これが意味するのは、<strong>賃金テーブルの下の方（最低賃金に近い層）が、上の方の賃金水準に向かって圧縮されていく</strong>ということです。新人と数年目の社員の時給差が、毎年少しずつ縮まっていく構造だと捉えると分かりやすくなります。</p>
 
 <h2>2年で121円——「上がり方」そのものが変わった</h2>
@@ -182,19 +272,23 @@
 <p>業務改善助成金は、事業場内で最も低い賃金（事業場内最低賃金）を50円以上引き上げ、生産性向上に資する設備投資などを行った場合に、その費用の一部を助成する制度です。<strong>助成額・助成率はコース区分や事業場内最低賃金の額によって変わるため、この記事では確定できる金額を書きません</strong>。厚生労働省の令和8年度の案内で必ず確認してください。制度の相談窓口として、業務改善助成金コールセンター（<strong>0120-366-440</strong>・平日9:00〜17:00）が用意されています。</p>
 <p>省力化そのものの進め方は、<a href="/blog/20260725-shoryokuka-subsidy.html" style="color:var(--accent);border-bottom:1px solid var(--accent)">省力化投資補助金の記事</a>や<a href="/blog/20260724-ai-subsidy-2026.html" style="color:var(--accent);border-bottom:1px solid var(--accent)">デジタル化・AI導入補助金の記事</a>でも解説しています。設備投資に使える補助金と、業務改善助成金は別制度なので、両方の要件を確認しながら組み合わせを検討するのが現実的です。</p>
 
-<h2>よくある失敗・NGパターン4つ</h2>
-<p>最低賃金の対応でつまずきやすいパターンを4つ挙げます。</p>
+<h2>よくある失敗・NGパターン5つ</h2>
+<p>最低賃金の対応でつまずきやすいパターンを5つ挙げます。</p>
 <ul>
-<li><strong>NG1：発効日を「10月1日」と決め打ちする。</strong>令和7年度の改定は2025年10月1日から2026年3月31日までの間に、都道府県ごとに順次発効しました。全国一律で特定の日に切り替わるわけではないため、自社の都道府県の発効日を個別に確認する必要があります。</li>
-<li><strong>NG2：時給だけ直して、賃金テーブルのゆがみを放置する。</strong>最低賃金付近だけを引き上げると、新人と数年目の社員の時給がほぼ同じになってしまうことがあります。テーブル全体のバランスを見ないまま時給だけを機械的に上げると、経験者の不満につながります。</li>
-<li><strong>NG3：省力化を「人を減らす」と社内に説明してしまう。</strong>省力化の狙いは特定の業務にかかる時間を減らすことであり、人員削減とイコールではありません。「人を減らす」という説明をしてしまうと、現場が協力的でなくなり、棚卸しの段階から情報が上がってこなくなります。</li>
-<li><strong>NG4：助成金の額を伝聞で決め打ちして計画を立てる。</strong>業務改善助成金の助成額・助成率はコース区分や事業場内最低賃金の額で変わります。「だいたいこのくらいもらえるはず」という伝聞で設備投資の発注を決めてしまうと、要件を満たさず助成対象外になるリスクがあります。発注前に必ず厚労省の案内と要件を確認してください。</li>
+<li><strong>NG1：発効日を「10月1日」と決め打ちする。</strong>令和7年度に10月中に発効したのは47のうち20都道府県、10月10日までなら13都道府県だけでした。6県は年を越し、秋田に至っては2026年3月31日です。全国一律で特定の日に切り替わるわけではないため、自社の都道府県の発効日を個別に確認する必要があります。</li>
+<li><strong>NG2：総支給額で最低賃金を満たしていると判断する。</strong>賞与・残業代・休日出勤手当・深夜割増分は、最低賃金との比較に算入しません。通勤手当や家族手当も同様です。総支給額で割ると時間額が実際より高く出るため、「うちは大丈夫」と判断してしまいます。月給の人は、基本給などの合計を1か月の所定労働時間数で割った額で確認してください。</li>
+<li><strong>NG3：時給だけ直して、賃金テーブルのゆがみを放置する。</strong>最低賃金付近だけを引き上げると、新人と数年目の社員の時給がほぼ同じになってしまうことがあります。テーブル全体のバランスを見ないまま時給だけを機械的に上げると、経験者の不満につながります。</li>
+<li><strong>NG4：省力化を「人を減らす」と社内に説明してしまう。</strong>省力化の狙いは特定の業務にかかる時間を減らすことであり、人員削減とイコールではありません。「人を減らす」という説明をしてしまうと、現場が協力的でなくなり、棚卸しの段階から情報が上がってこなくなります。</li>
+<li><strong>NG5：助成金の額を伝聞で決め打ちして計画を立てる。</strong>業務改善助成金の助成額・助成率はコース区分や事業場内最低賃金の額で変わります。「だいたいこのくらいもらえるはず」という伝聞で設備投資の発注を決めてしまうと、要件を満たさず助成対象外になるリスクがあります。発注前に必ず厚労省の案内と要件を確認してください。</li>
 </ul>
 <p style="font-size:.85rem;color:var(--text-3)">自社の賃金テーブルと業務の棚卸しを一緒に整理したい方は、<a href="/fde/" style="color:var(--accent);border-bottom:1px solid var(--accent)">無料相談・無料AI診断</a>からご相談ください。</p>
 
 <h2>よくある質問</h2>
 <div class="a-faq">
-<details><summary>2026年度の最低賃金はいつから上がりますか？</summary><p>令和7年度の引上げは、2025年10月1日から2026年3月31日までの間に都道府県ごとに順次発効しました。令和8年度も同じ仕組みで、目安をもとに各都道府県労働局長が改定額を決定し、発効日は都道府県ごとに順次定められます。全国一律で特定の1日に切り替わるわけではありません。</p></details>
+<details><summary>2026年度の最低賃金はいつから上がりますか？</summary><p>令和7年度の引上げは、2025年10月1日（栃木）から2026年3月31日（秋田）までの間に、都道府県ごとに順次発効しました。10月中に発効したのは47のうち20都道府県、10月10日までなら13都道府県で、福島・徳島・熊本・大分・群馬・秋田の6県は年を越しています。令和8年度も同じ仕組みで、目安をもとに各都道府県労働局長が改定額と発効日を決定します。全国一律で特定の1日に切り替わるわけではありません。</p></details>
+<details><summary>自分の県の最低賃金は2026年度にいくらになりますか？</summary><p>目安どおりに決まった場合の試算では、東京1,280円・神奈川1,279円・大阪1,231円が上位3都府県、高知・宮崎・沖縄の1,079円が最も低くなります。この記事の「47都道府県別」の表に、いまの時給・引上げの目安・2026年度の想定時給を全県分載せています。ただし想定時給はいまの時給にランク別の目安額を足した計算値であり、確定額ではありません。実際の額は各都道府県労働局長が決定します。</p></details>
+<details><summary>月給の場合、最低賃金を満たしているかはどう計算しますか？</summary><p>厚生労働省の「最低賃金に関するセルフチェックシート」では、①基本給・役付手当・住宅手当・交替手当の合計を出し、②1日の所定労働時間数×年間総労働日数÷12で1か月の所定労働時間数を出し、③①÷②で時間額を求めて、自分の都道府県の最低賃金額と比べる、という手順を示しています。賞与、残業代、休日出勤手当、深夜割増分、通勤手当、家族手当などは算入しません。総支給額で割ると時間額が実際より高く出るので注意してください。</p></details>
+<details><summary>最低賃金より低い賃金でも、本人が合意していれば有効ですか？</summary><p>有効になりません。最低賃金法第4条第2項は、最低賃金額に達しない賃金を定めた労働契約はその部分について無効とし、無効となった部分は最低賃金と同じ定めをしたものとみなす、と規定しています。合意の有無にかかわらず差額の支払い義務が残ります。また同法第40条により、地域別最低賃金額以上の賃金を支払わなかった者は50万円以下の罰金の対象です。</p></details>
 <details><summary>目安の55円は必ずその額になりますか？</summary><p>なりません。55円は第75回中央最低賃金審議会が2026年7月28日に示した「目安」であり、実際の引上げ額は目安を参考にしながら、各都道府県労働局長が地域の実情を踏まえて決定します。目安どおりになるとは限りません。</p></details>
 <details><summary>東京・大阪（Aランク）の方が上げ幅の目安が小さいのはなぜですか？</summary><p>令和8年度の目安はAランク54円、B・Cランクはともに56円です。この記事では目安の理由そのものには踏み込みませんが、令和7年度に最低額の県と最高額の県の比率が83.4%（前年度81.8%）へ縮まったことが分かっており、地域差を縮める向きの目安が続いていると読めます。</p></details>
 <details><summary>パート・アルバイトも対象ですか？</summary><p>地域別最低賃金は、産業や雇用形態にかかわらず、その都道府県内で働くすべての労働者に適用される仕組みです。パート・アルバイトも対象に含まれます。</p></details>
@@ -203,7 +297,7 @@
 </div>
 
 <h2>まとめ</h2>
-<p>令和8年度の最低賃金は、目安どおりなら全国加重平均で55円引き上げの1,176円（引上げ率4.9%）です。ただしこれは目安であり、確定額は各都道府県労働局長がこれから決定します。一方、日本商工会議所の調査では、小規模企業の賃上げ率は3.38%にとどまっており、法定の下限の方が企業の賃上げより速いペースで上がる状態が2年続いています。この差を単純比較することはできませんが、賃金テーブルの下の方が圧縮されていく向きは変わりません。人件費の増加分は、値上げ・採用抑制・省力化のいずれかで吸収するしかなく、日商調査では小規模企業の31.2%が賃上げの実施を「未定」と回答しています。事例やツールを探すより先に、自社のどの業務にどれだけの時間がかかっているかを棚卸しし、業務改善助成金の受付開始（2026年9月1日）までに準備を進める——それが、今回の目安から導ける最初の一歩です。</p>
+<p>令和8年度の最低賃金は、目安どおりなら全国加重平均で55円引き上げの1,176円（引上げ率4.9%）です。都道府県別に試算すると、1,200円を超えるのは東京・神奈川・大阪の3都府県、最も低いのは高知・宮崎・沖縄の1,079円になります。ただしこれは目安から計算した値であり、確定額は各都道府県労働局長がこれから決定します。そして「いつから」の答えは全国一律ではありません。令和7年度に10月中に発効したのは47のうち20都道府県で、6県は年を越し、秋田は2026年3月31日でした。自社の県の発効日は個別に確認する必要があります。一方、日本商工会議所の調査では、小規模企業の賃上げ率は3.38%にとどまっており、法定の下限の方が企業の賃上げより速いペースで上がる状態が2年続いています。この差を単純比較することはできませんが、賃金テーブルの下の方が圧縮されていく向きは変わりません。人件費の増加分は、値上げ・採用抑制・省力化のいずれかで吸収するしかなく、日商調査では小規模企業の31.2%が賃上げの実施を「未定」と回答しています。事例やツールを探すより先に、自社のどの業務にどれだけの時間がかかっているかを棚卸しし、業務改善助成金の受付開始（2026年9月1日）までに準備を進める——それが、今回の目安から導ける最初の一歩です。</p>
 
 <div class="a-cta">
   <p style="font-family:var(--serif);font-size:1.02rem;font-weight:700;color:var(--text)">「どの業務の時間を減らすか」から、一緒に見つけます。</p>
@@ -215,6 +309,8 @@
 <div class="a-src">参考（一次情報）：<br>
 ・厚生労働省「<a href="https://www.mhlw.go.jp/stf/newpage_74920.html" target="_blank" rel="noopener">令和8年度地域別最低賃金額改定の目安について</a>」（2026年7月28日公表・第75回中央最低賃金審議会答申）<br>
 ・厚生労働省「<a href="https://www.mhlw.go.jp/stf/newpage_63030.html" target="_blank" rel="noopener">全ての都道府県で地域別最低賃金の答申がなされました</a>」（2025年9月5日発表・令和7年度）<br>
+・厚生労働省「<a href="https://www.mhlw.go.jp/stf/seisakunitsuite/bunya/koyou_roudou/roudoukijun/minimumichiran/index.html" target="_blank" rel="noopener">地域別最低賃金の全国一覧</a>」（令和7年度地域別最低賃金全国一覧・47都道府県の額と発効日／最低賃金に関するセルフチェックシート）<br>
+・<a href="https://laws.e-gov.go.jp/law/334AC0000000137" target="_blank" rel="noopener">最低賃金法</a>（第4条・第40条）／<a href="https://laws.e-gov.go.jp/law/334M50002000016" target="_blank" rel="noopener">最低賃金法施行規則</a>（第1条）・e-Gov法令検索<br>
 ・日本商工会議所「<a href="https://www.jcci.or.jp/news/research/2026/0608113015.html" target="_blank" rel="noopener">中小企業の賃上げ・賃金改定に関する調査</a>」（2026年6月8日公表）<br>
 ・厚生労働省「<a href="https://www.mhlw.go.jp/stf/seisakunitsuite/bunya/koyou_roudou/roudoukijun/zigyonushi/shienjigyou/03.html" target="_blank" rel="noopener">業務改善助成金</a>」</div>
 

diff --git a/blog/index.html b/blog/index.html
@@ -133,8 +133,8 @@
       <div class="card blog-card">
         <span class="b-date">2026.08.03 夕</span>
         <a href="/blog/20260803-saitei-chingin-2026.html" class="b-thumb"><img src="/assets/blog/20260803-saitei-chingin-2026.jpg" alt="" loading="lazy"></a>
-        <h3><a href="/blog/20260803-saitei-chingin-2026.html">最低賃金2026年度は55円引き上げ・全国加重平均1,176円へ——賃上げ率3.38%の小規模企業がギャップをどう埋めるか</a></h3>
-        <p>厚労省が2026年7月28日に示した令和8年度の最低賃金の目安は全国加重平均で55円引き上げ・1,176円。日商調査の小規模企業の賃上げ率3.38%とのギャップと、9月までに決めることを数字で解説します。</p>
+        <h3><a href="/blog/20260803-saitei-chingin-2026.html">最低賃金2026年度はいつから・いくら？47都道府県別の想定時給と発効日——目安55円・全国平均1,176円</a></h3>
+        <p>令和8年度の最低賃金の目安は全国加重平均で55円引き上げ・1,176円。47都道府県ごとの2026年度の想定時給と、令和7年度の発効日（2025年10月1日〜2026年3月31日）を一覧に。自社が下回っていないかの確認方法まで解説します。</p>
         <a href="/blog/20260803-saitei-chingin-2026.html" class="b-more">読む →</a>
       </div>
       <div class="card blog-card">
